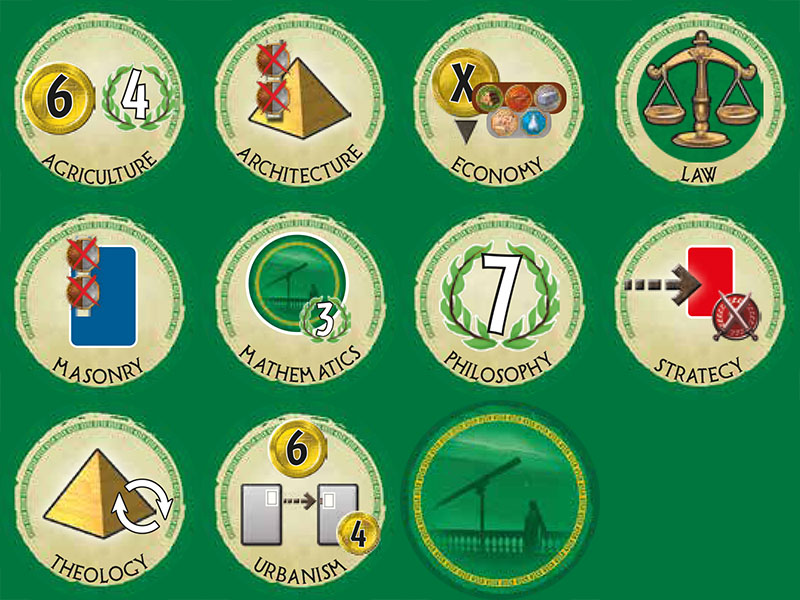
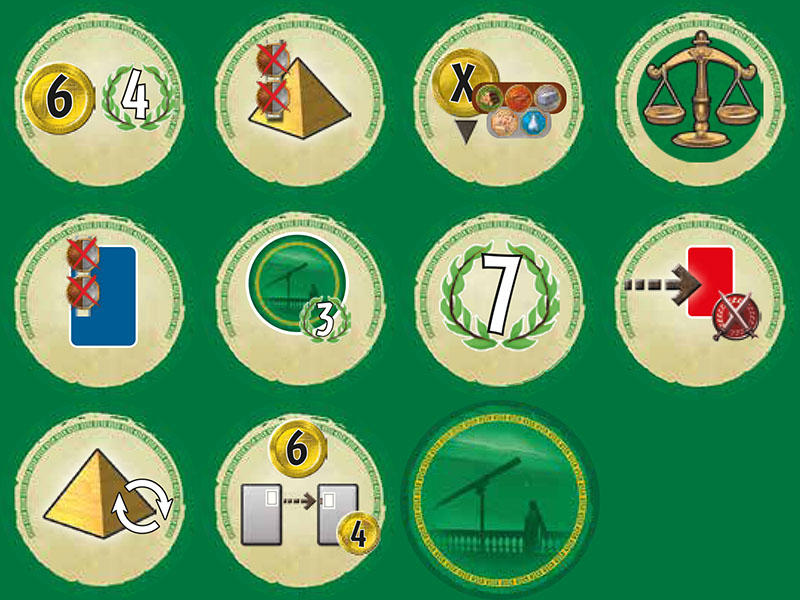
Dynamic progress token titles

diff --git a/sevenwondersduel.css b/sevenwondersduel.css
@@ -100,7 +100,7 @@ __     __         _       _     _
     --linked-building-icon-small-scale: calc(0.45 * var(--scale));
 
     --board-width: 400px;
-    --board-height: 1440px;
+    --board-height: 1422px;
     --board-scale: calc(0.5 * var(--scale));
 
     --small-border-radius: 7px;
@@ -1151,18 +1151,25 @@ __        __              _
     width: calc(var(--wonder-width) * var(--wonder-small-scale));
     height: calc(var(--wonder-height) * var(--wonder-small-scale));
 }
+
+
+.swd_title {
+    font-family: "PossumSaltareNF";
+    text-align: center;
+    text-transform: uppercase;
+}
 .wonder .swd_title {
     position: relative;
     top: 86%;
     left: -3.5%;
-    font-family: "PossumSaltareNF";
     font-size: 16px;
     display: block;
-    text-transform: uppercase;
-    text-align: center;
 }
 .wonder_small .swd_title {
     font-size: calc(16px * var(--wonder-small-scale));
+}
+.progress_token .swd_title {
+    font-size: 22px;
 }
 
 /*

diff --git a/sevenwondersduel.js b/sevenwondersduel.js
@@ -730,8 +730,10 @@ define([
             },
 
             getProgressTokenDivHtml: function(progressTokenId) {
+                var progressToken = this.gamedatas.progressTokens[progressTokenId];
                 var data = {
                     jsId: progressTokenId,
+                    jsName: progressToken.name,
                     jsData: 'data-progress-token-id="' + progressTokenId + '"',
                 };
                 var spritesheetColumns = 4;
